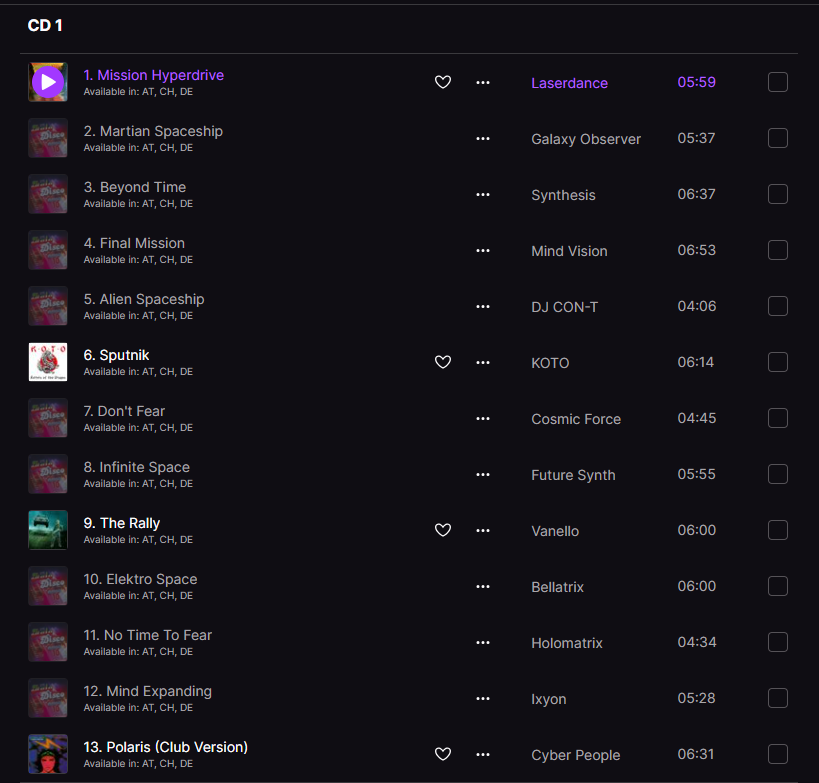
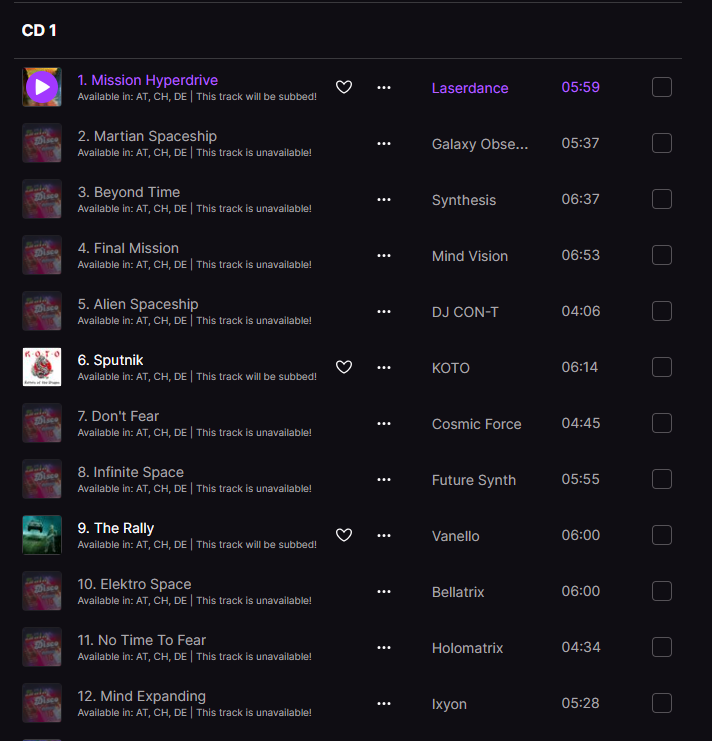
fix: undefined reference from bad refactoring and update readme

diff --git a/deezer-display-availability.user.js b/deezer-display-availability.user.js
@@ -86,7 +86,7 @@ function traverse_track_list_container(node_length) {
 function create_availability_span(countries) {
 	const countries_string = countries.length <= 4
 		? countries.join(", ")
-		: countries.slice(0, 3).join(", ") + ` and ${data.available_countries.length - 4} more!`;
+		: countries.slice(0, 3).join(", ") + ` and ${countries.length - 4} more!`;
 
 	const text = document.createTextNode(`Available in: ${countries_string}`);
 	const span = document.createElement("span");
@@ -103,11 +103,11 @@ function create_availability_span(countries) {
 /**
  * @param {HTMLSpanElement} span_node
  * @param {string} user_country
- * @param {string[]} available_countries
+ * @param {string[]} countries
  * @param {AjaxTrack} track
  */
-function add_subbing_prob_string(span_node, user_country, available_countries, track) {
-	const not_in_country = !available_countries.includes(user_country);
+function add_subbing_prob_string(span_node, user_country, countries, track) {
+	const not_in_country = !countries.includes(user_country);
 	const has_fallback = "FALLBACK" in track;
 
 	const content = span_node.lastChild.textContent;

diff --git a/README.md b/README.md
@@ -1,10 +1,10 @@
 # deezer-display-availability
 
-UserScript to display the countries where a track is available in the deezer site.
+Deezer UserScript to display whether a track will be subbed from another release and the countries where the track is available.
 
 > [!WARNING]
 > This UserScript sends a request per each track in the album to https://api.deezer.com. This is the same reason why the script uses the `context-menu` runner. <br>
-> DO NOT cry after you get ip banned lmao.
+> DO NOT cry after you get ip banned, lol.
 
 ## Usage
 
